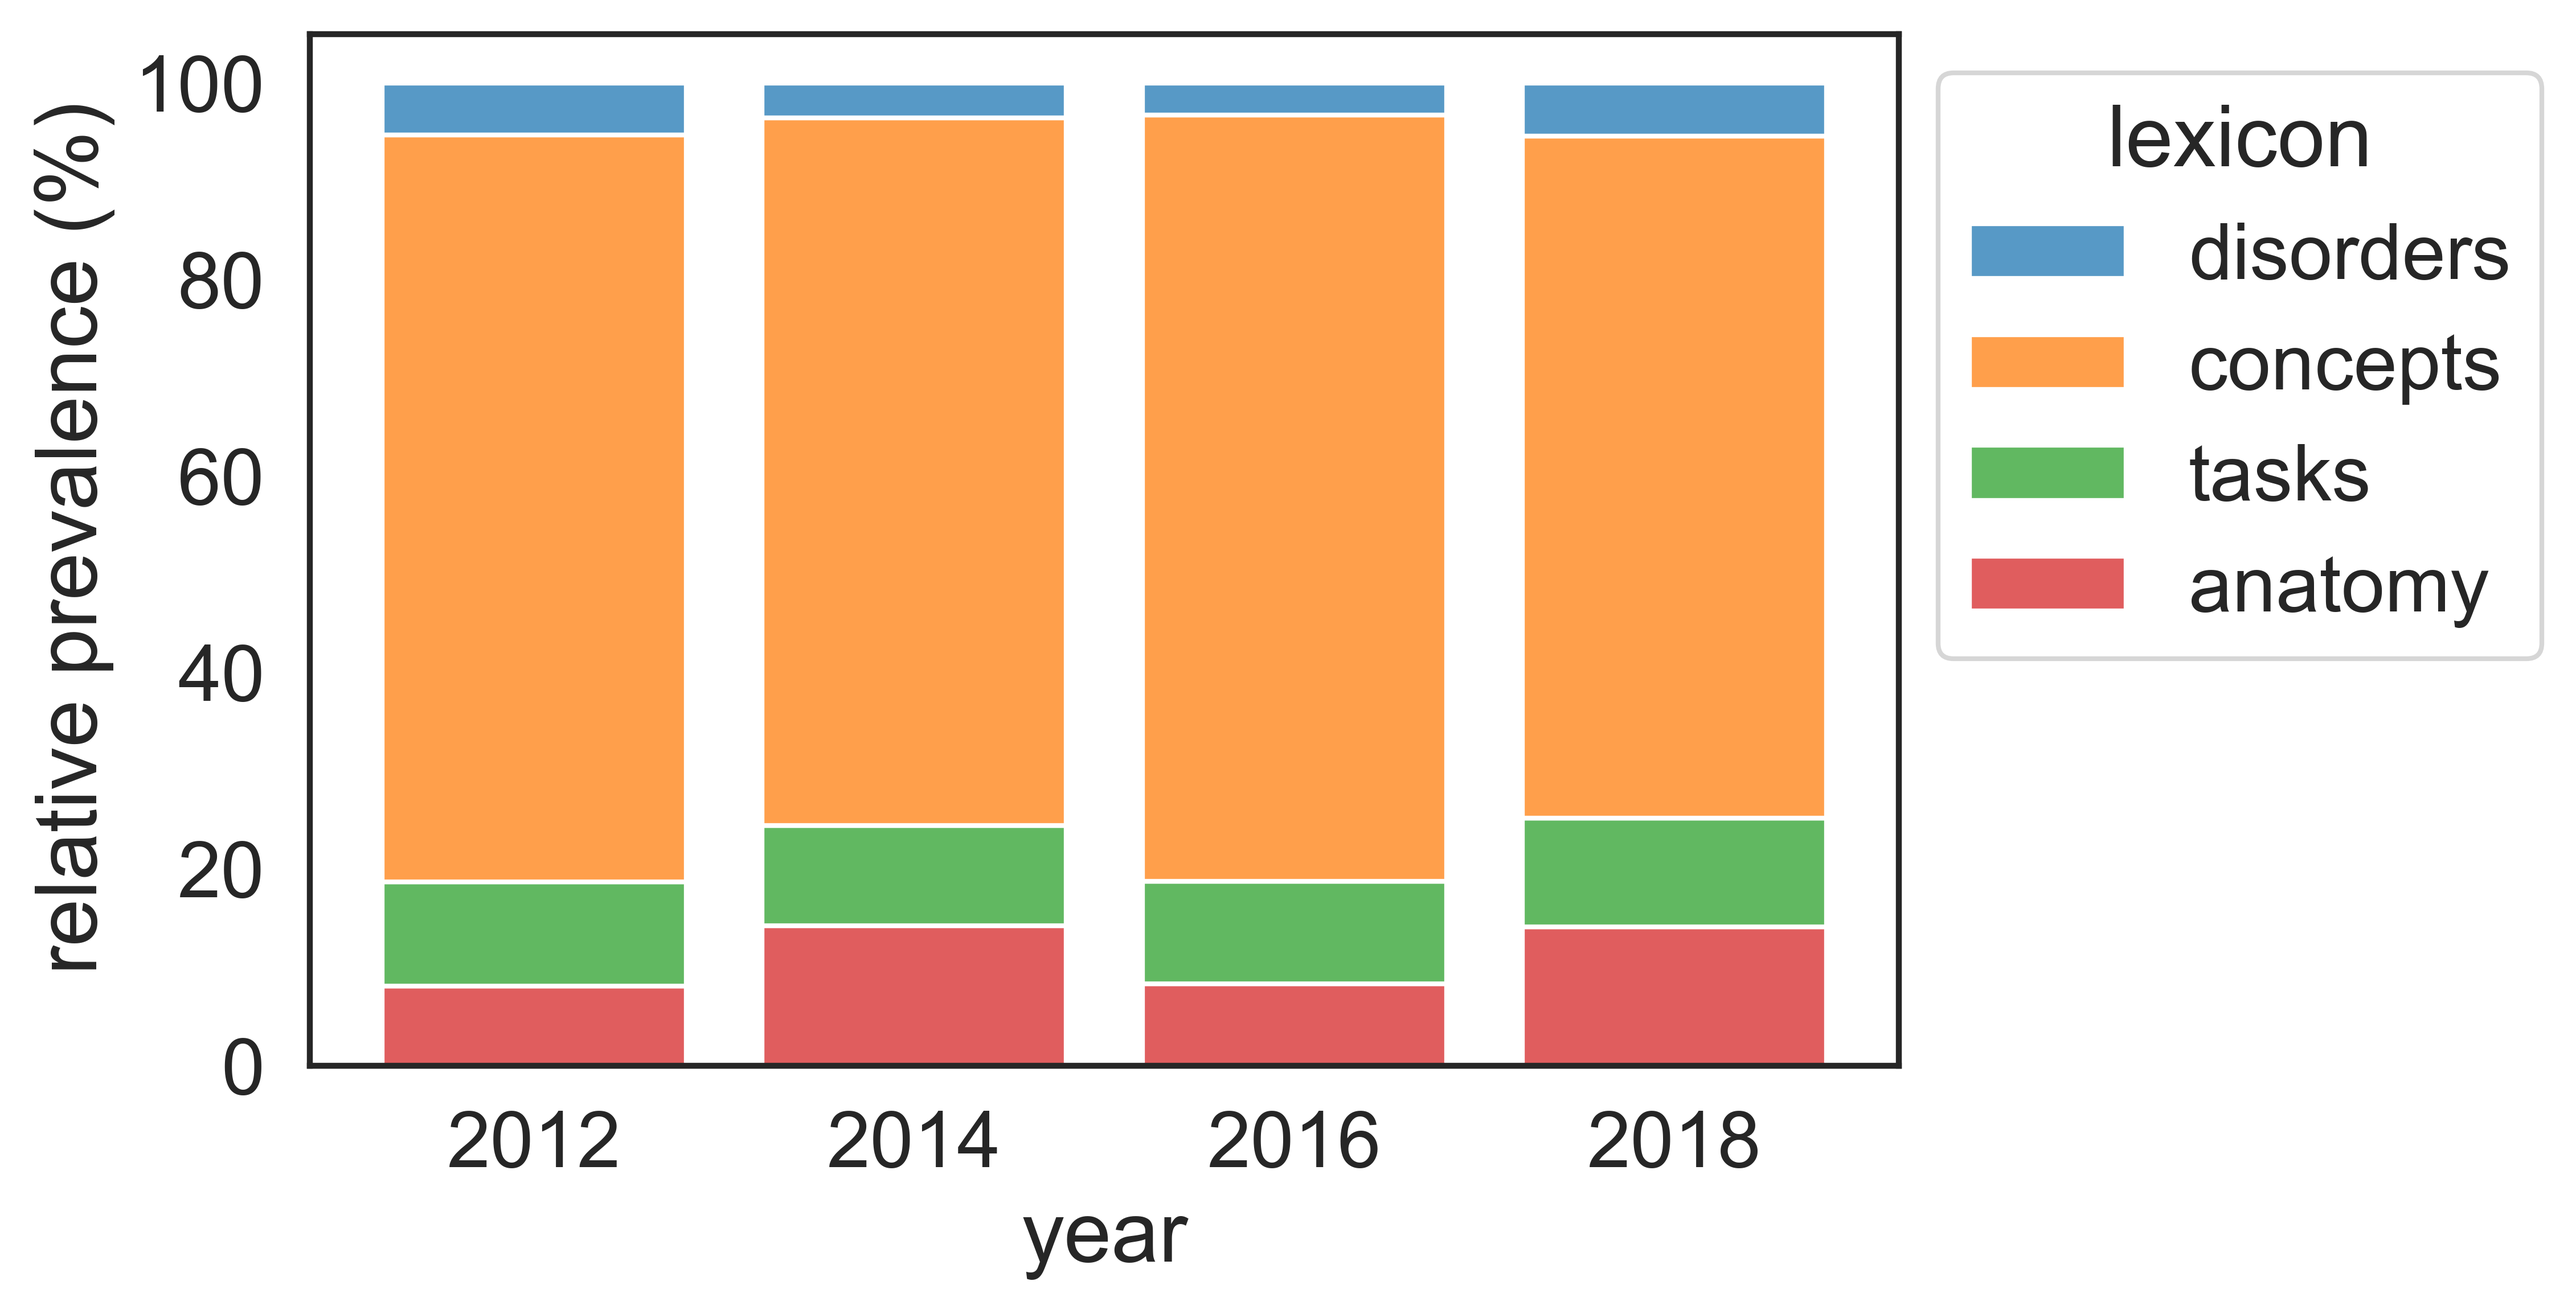
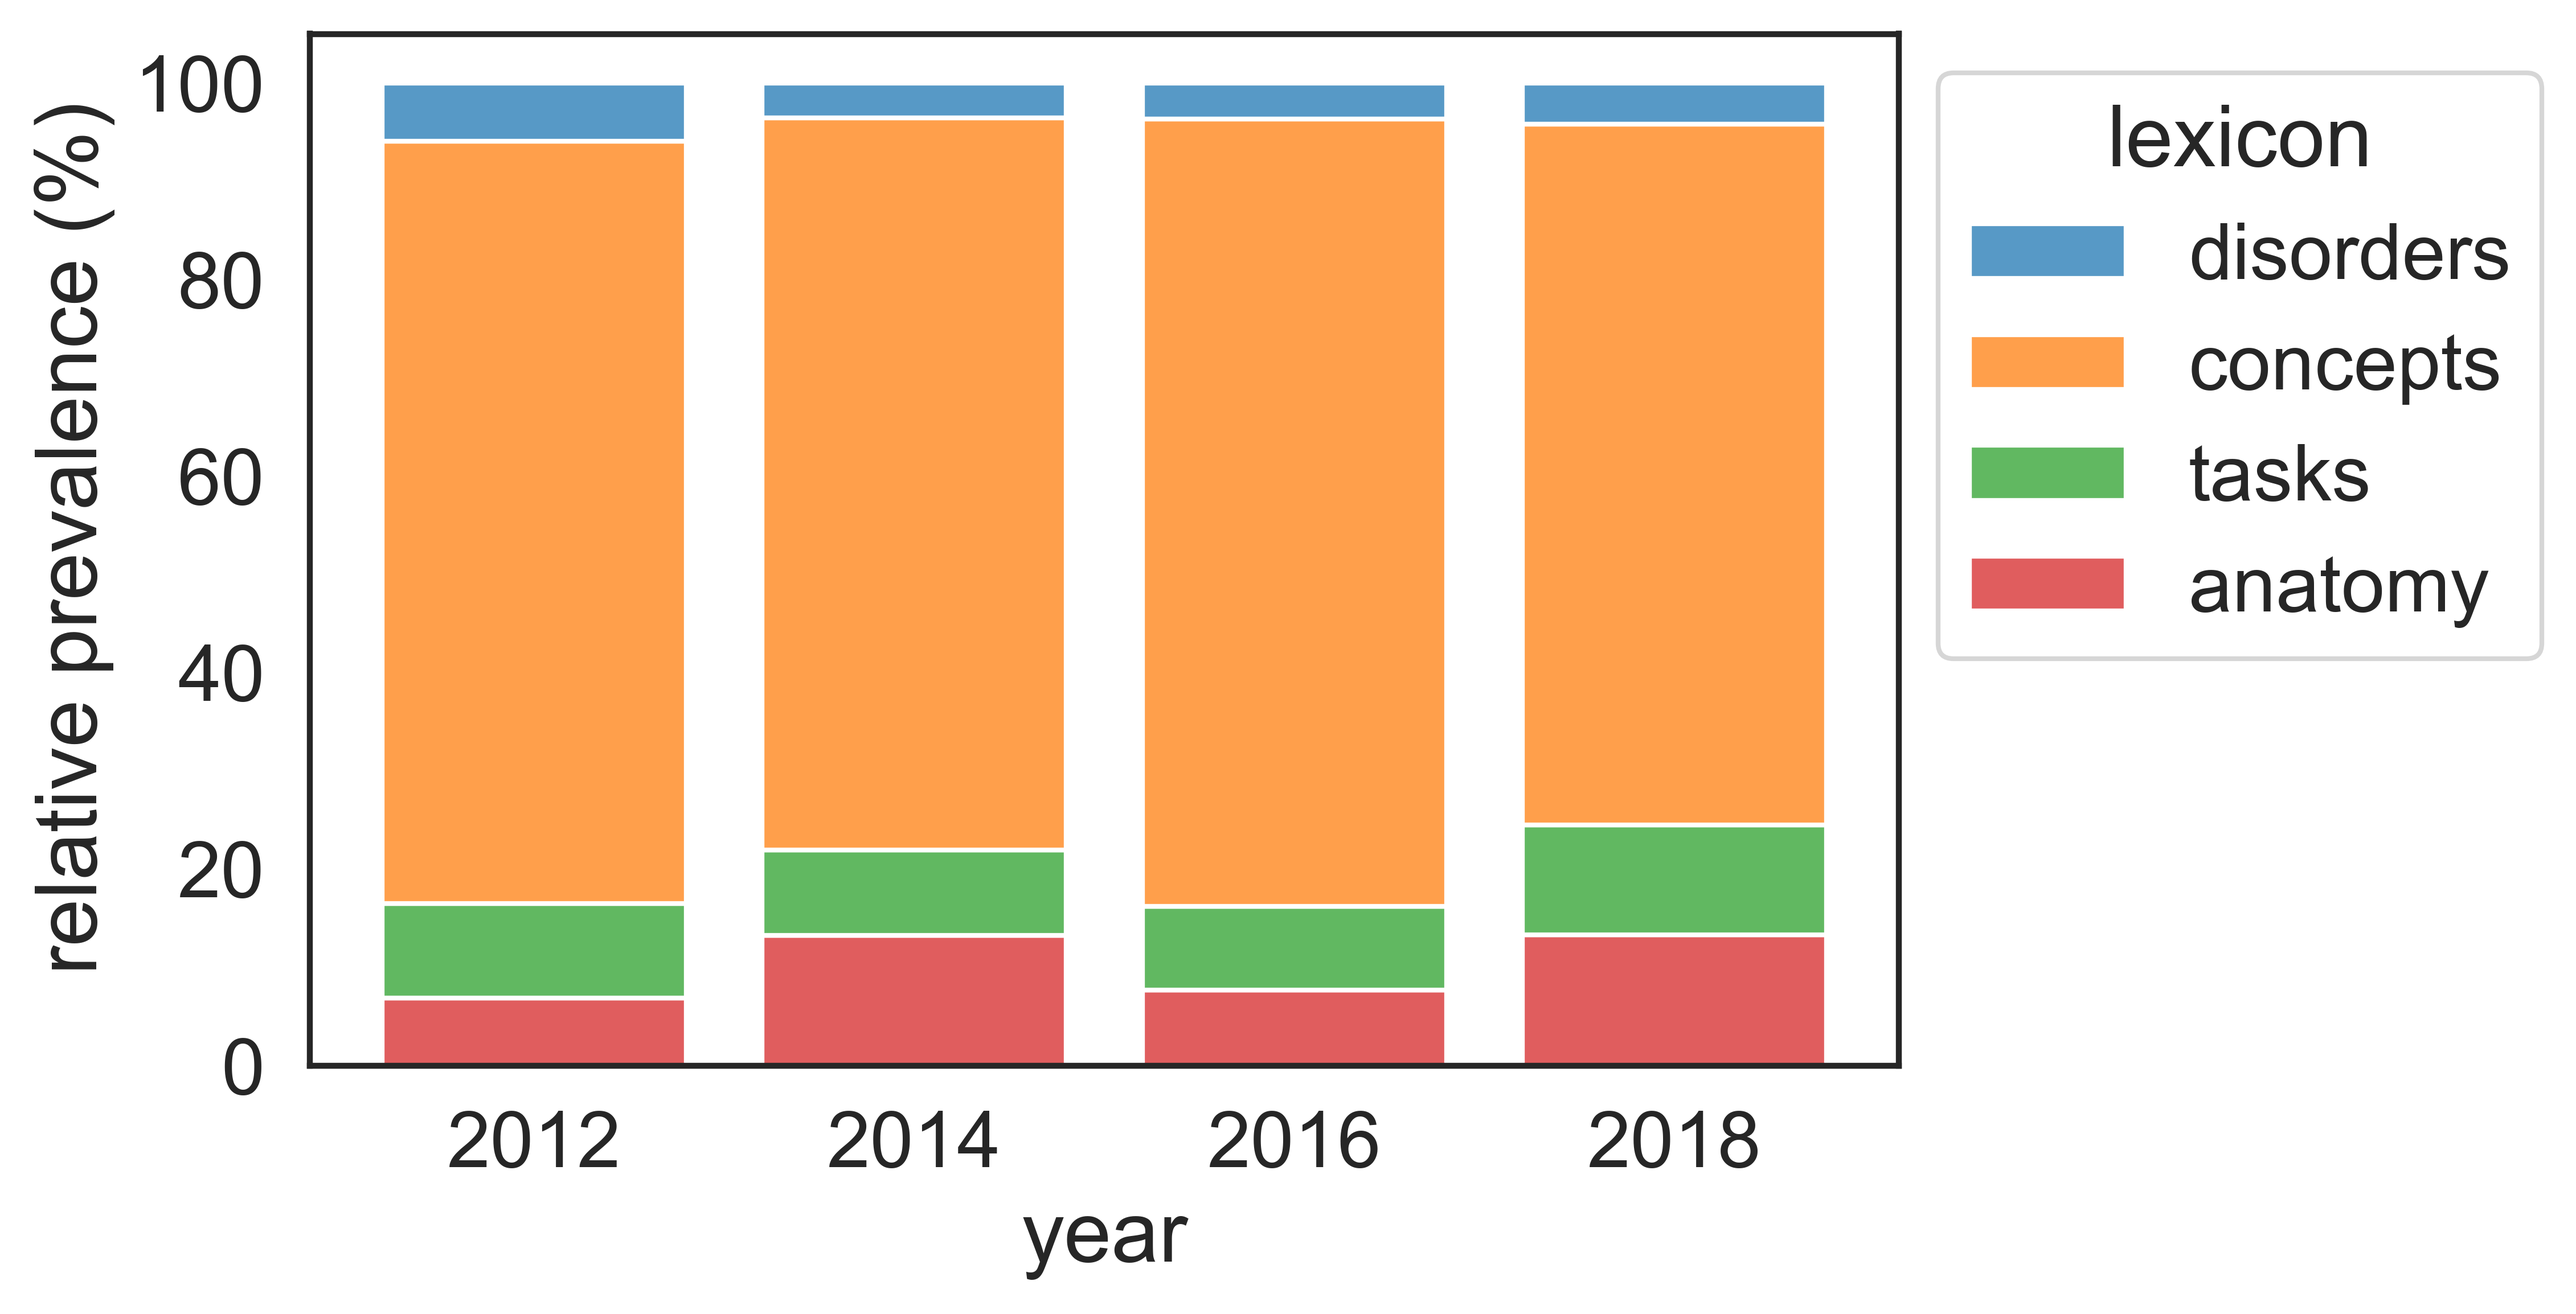
fixed parse whole words

diff --git a/code/parse_abstracts.py b/code/parse_abstracts.py
@@ -141,9 +141,12 @@ def search_lexicon(input_text,lexicon):
     # search for each dsm term, take a count
     for concept in features.columns:
         processed_concept = " ".join(processText(str(concept)))
-        features.loc[0,concept] = len(re.findall(processed_concept,input_text))
+        regex = re.compile(r"\b" + processed_concept + r"\b", re.IGNORECASE)
+        features.loc[0,concept] = len(regex.findall(input_text))
     #print("Found %s total occurrences for %s" %(features.loc[pid].sum(),pid))            
     return features.T
+
+
 
 # Word clouds
 # I'm turning this into a function so we can easily plug it for each lexicon
